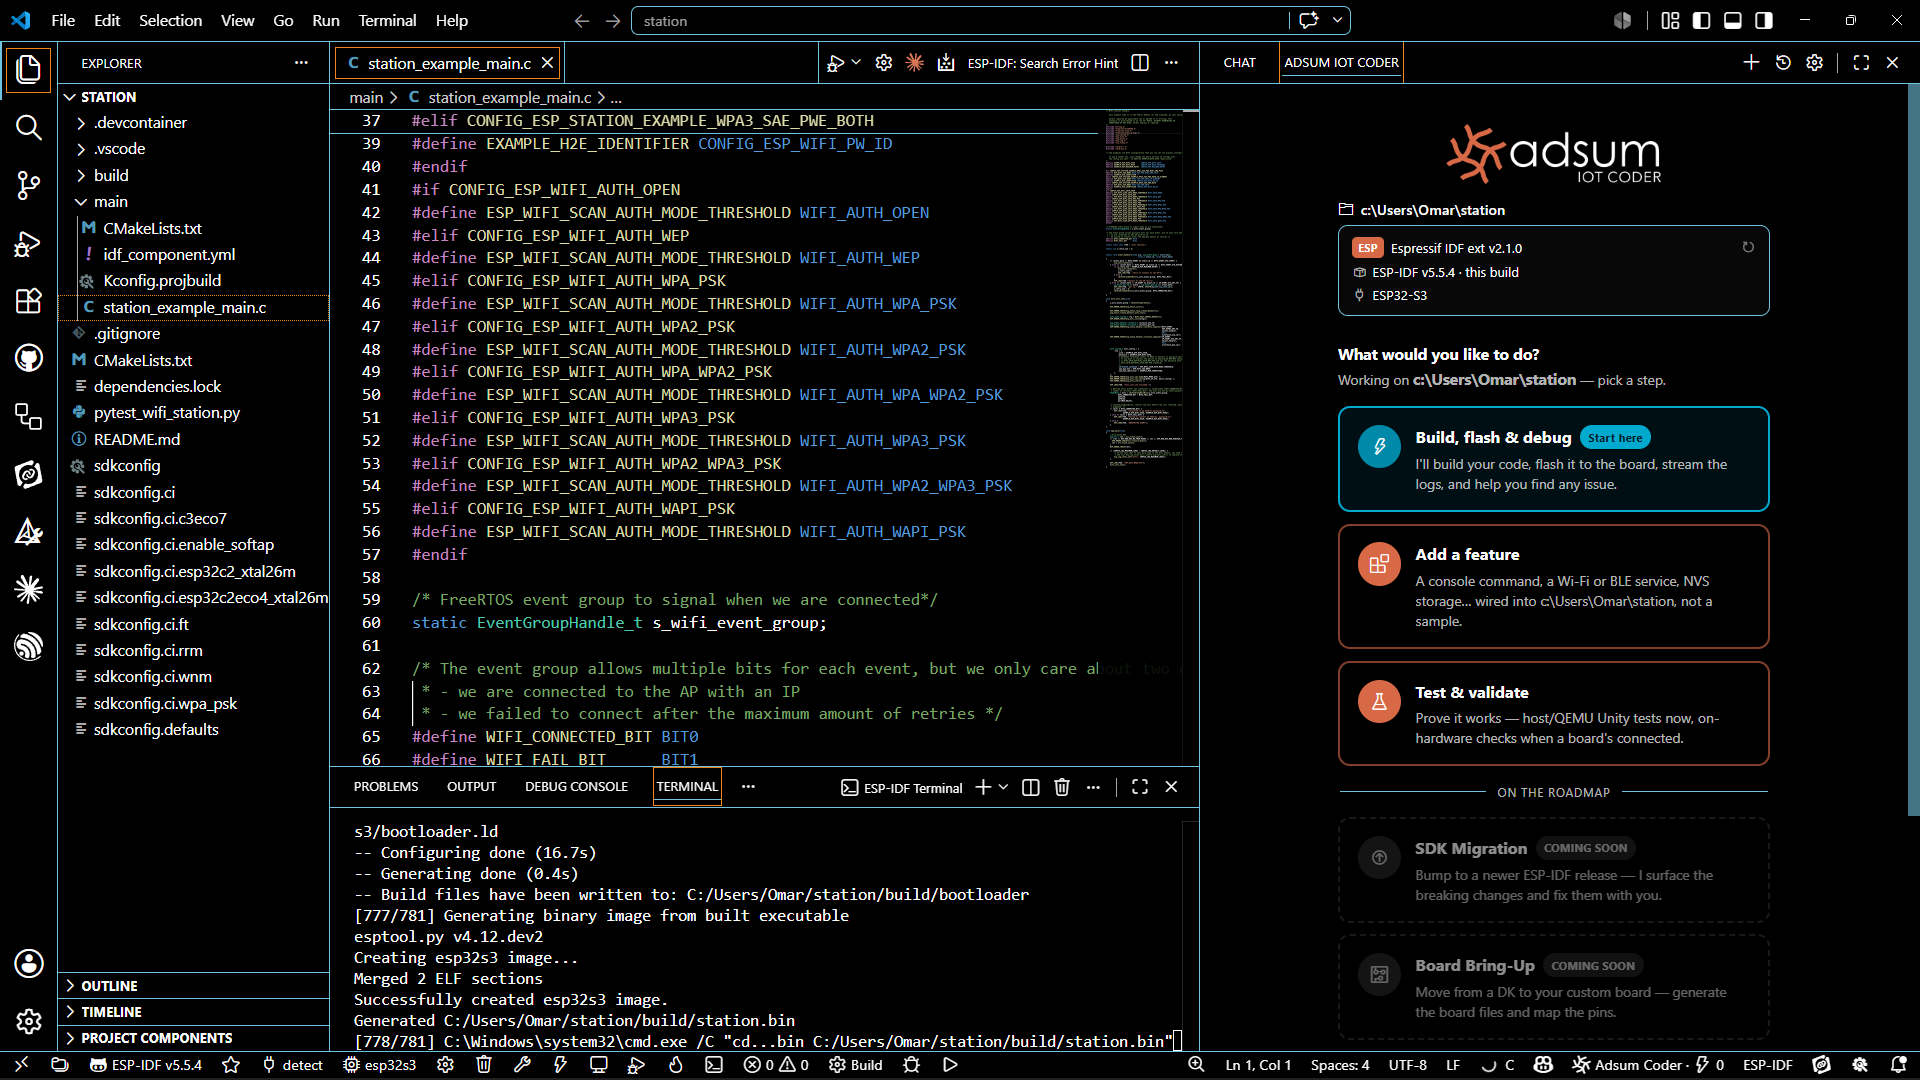
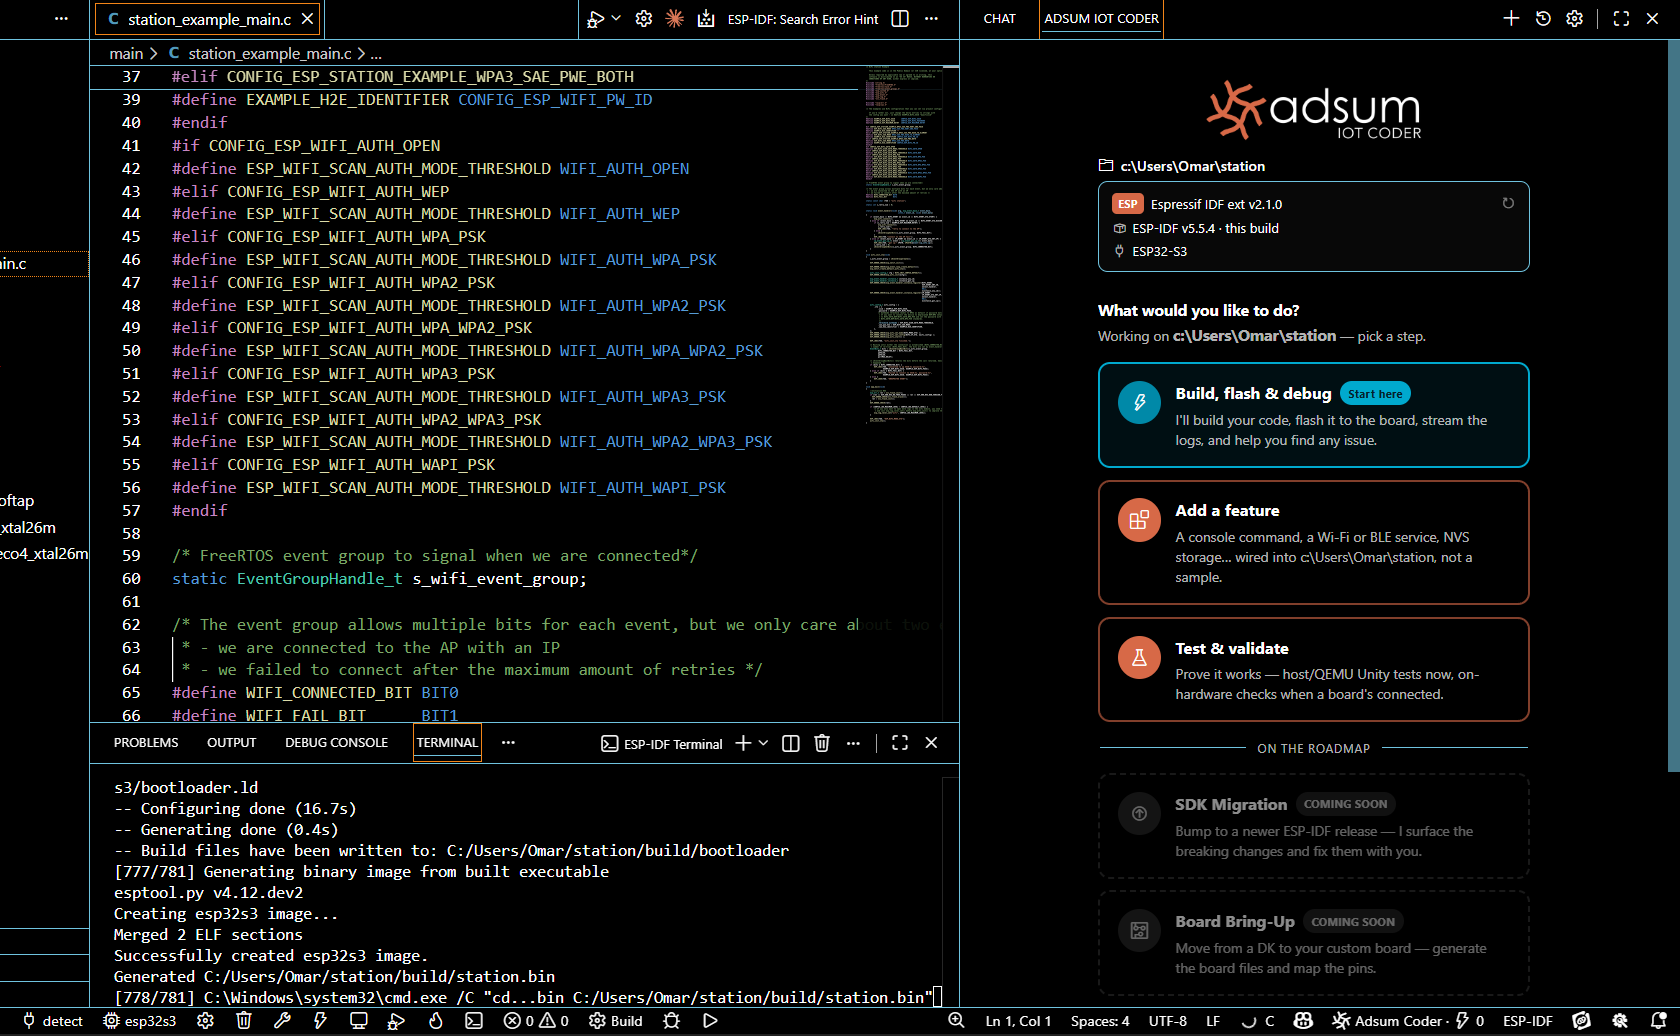
docs(readme): cropped screenshots (panel-focused home, ESP build); stack for aspect balance

Changed region(s): [[0.0, 0.0, 1.0, 1.0], [0.8357, 0.0, 1.0, 0.7722], [0.681, 0.7722, 0.8976, 0.834]]

diff --git a/README.md b/README.md
@@ -65,8 +65,10 @@ And the reason it is good at the hard parts is the part general agents do not ha
 - **Test & validate.** Host tests and on-hardware checks.
 
 <p align="center">
-  <img src="assets/docs/home-detect.png" width="49%" alt="Adsum IoT Coder home in VS Code: automatic detection of Nordic nRF (nRF Connect SDK) and Espressif ESP (ESP-IDF) toolchains and boards, with one-click workflow cards" />
-  <img src="assets/docs/esp-build.png" width="49%" alt="Adsum IoT Coder building ESP-IDF firmware for an ESP32-S3 in VS Code" />
+  <img src="assets/docs/home-detect.png" width="260" alt="Adsum IoT Coder panel in VS Code: automatic detection of Nordic nRF (nRF Connect SDK) and Espressif ESP (ESP-IDF) toolchains and boards, with one-click workflow cards" />
+</p>
+<p align="center">
+  <img src="assets/docs/esp-build.png" width="90%" alt="Adsum IoT Coder building ESP-IDF firmware for an ESP32-S3 in VS Code" />
 </p>
 
 